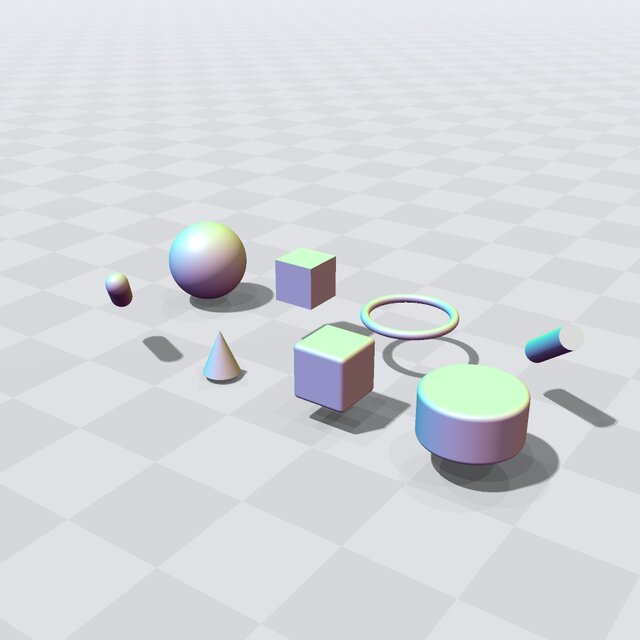
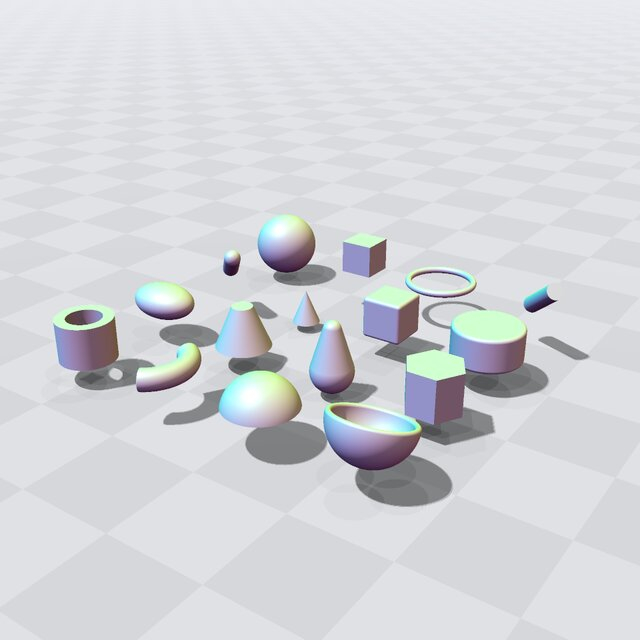
The nine shapes as built-in tape types, and in the Shapes example
They follow the three mesh SDFs in the type list, past Tape::DispatchSplit, so
the host's inlined dispatch is unchanged; the float and double tape kernels keep
168 registers. Tests: each in a one-clause tape and in the every-operation device
check; a composition of the shapes with ray forms traced exactly by a tape and
fused. The Shapes example builds, prints and shows all of them, with a rounded
prism from Offset; its picture is re-rendered.

Claude-Session: https://claude.ai/code/session_01FnaeZk1ThKVcT9ypbex2Vt

Changed region(s): [[0.0625, 0.3125, 0.9688, 0.8125]]

diff --git a/Examples/Shapes/main.cpp b/Examples/Shapes/main.cpp
@@ -91,7 +91,9 @@ main(int argc, char* argv[])
   // ── Construct the shapes ───────────────────────────────────────────────────────────────────────────
   //
   // The constructors take the shape's position before its sizes. A shape with a built-in axis (the
-  // torus, both cones, the rounded cylinder) has it along y, and a size is that of the finished shape.
+  // torus, the cones, the rounded cylinder, the capped torus, the cut spheres, the wedge) has it along y;
+  // the cylinder, capsule, capped and round cones, prism and tube take the centers of their two ends, so
+  // they can point anywhere. A size is that of the finished shape.
   // See the class documentation in EBGeometry_AnalyticDistanceFunctions.hpp for every parameter.
 
   // A plane through the origin, oriented by its normal vector (normalized for you).
@@ -131,6 +133,50 @@ main(int argc, char* argv[])
   // per-octave amplitude decay (persistence), and the number of octaves.
   const EBGeometry::PerlinSDF<T> perlin(T(1), Vec3::ones(), T(0.5), 10);
 
+  // An ellipsoid: center, and its semi-axes along x, y and z. Its distance is exact, from a short
+  // iteration, so it costs more to evaluate than the others; turn it with Rotate.
+  const EBGeometry::EllipsoidSDF<T> ellipsoid(Vec3::zeros(), Vec3(T(1), T(0.5), T(0.7)));
+
+  // A capped cone (a frustum, a nozzle): the centers of its two flat ends, and the radius at each. A
+  // radius of 0 makes a cone that, unlike ConeSDF, can point anywhere.
+  const EBGeometry::CappedConeSDF<T> cappedCone(Vec3(T(0), T(-0.6), T(0)), Vec3(T(0), T(0.6), T(0)), T(0.8), T(0.3));
+
+  // A round cone: two spheres, centers and radii, joined by the cone tangent to both.
+  const EBGeometry::RoundConeSDF<T> roundCone(Vec3(T(0), T(-0.5), T(0)), Vec3(T(0), T(0.7), T(0)), T(0.6), T(0.25));
+
+  // A regular prism (a polygonal rod): the centers of its two ends, circumradius, number of sides, and the
+  // direction from the axis toward one vertex.
+  const EBGeometry::PolygonPrismSDF<T> prism(
+    Vec3(T(0), T(-0.6), T(0)), Vec3(T(0), T(0.6), T(0)), T(0.8), 6U, Vec3(T(1), T(0), T(0)));
+
+  // A tube (a pipe): the centers of its two ends, inner and outer radius.
+  const EBGeometry::TubeSDF<T> tube(Vec3(T(0), T(-0.6), T(0)), Vec3(T(0), T(0.6), T(0)), T(0.5), T(0.8));
+
+  // A capped torus (a pipe elbow): center, major and minor radius, and the angle the arc sweeps, around y and
+  // symmetric about +x, with flat ends.
+  const EBGeometry::CappedTorusSDF<T> elbow(Vec3(T(-0.6), T(0), T(0)), T(1), T(0.3), T(120));
+
+  // A cut sphere (a dome): center, radius, and the height above the center where it is cut; the part above
+  // the cut is kept.
+  const EBGeometry::CutSphereSDF<T> dome(Vec3(T(0), T(-0.3), T(0)), T(1), T(0.2));
+
+  // A cut hollow sphere (a shell): center, radius of the shell's middle, cut height and wall thickness.
+  const EBGeometry::CutHollowSphereSDF<T> shell(Vec3(T(0), T(-0.5), T(0)), T(1), T(0), T(0.15));
+
+  // A wedge (a knife edge), infinite along z and pointing along +y: a point on its edge, opening angle.
+  const EBGeometry::WedgeSDF<T> wedge(Vec3::zeros(), T(60));
+
+  // Rounded edges come from Offset: a slightly smaller prism, inflated by the rounding radius, rounds every
+  // edge and keeps the outer size.
+  const T    rounding = T(0.1);
+  const auto roundedPrism =
+    EBGeometry::Fused::Offset(EBGeometry::PolygonPrismSDF<T>(Vec3(T(0), T(-0.6) + rounding, T(0)),
+                                                             Vec3(T(0), T(0.6) - rounding, T(0)),
+                                                             T(0.8) - rounding / std::cos(EBGeometry::pi<T> / T(6)),
+                                                             6U,
+                                                             Vec3(T(1), T(0), T(0))),
+                              rounding);
+
   // ── Use them on the host ───────────────────────────────────────────────────────────────────────────
   //
   // signedDistance(point) is negative inside, positive outside and zero on the surface.
@@ -153,6 +199,16 @@ main(int argc, char* argv[])
   report("rounded box", roundedBox);
   report("rounded cylinder", roundedCylinder);
   report("Perlin noise", perlin);
+  report("ellipsoid", ellipsoid);
+  report("capped cone", cappedCone);
+  report("round cone", roundCone);
+  report("prism", prism);
+  report("tube", tube);
+  report("capped torus", elbow);
+  report("cut sphere", dome);
+  report("cut hollow sphere", shell);
+  report("wedge", wedge);
+  report("rounded prism", roundedPrism);
 
   // ── The same query on a GPU ────────────────────────────────────────────────────────────────────────
   //
@@ -185,13 +241,27 @@ main(int argc, char* argv[])
 
   // ── Look at them ───────────────────────────────────────────────────────────────────────────────────
   //
-  // The bounded shapes side by side, two rows of four. Shapes of different types are put together with the
+  // The bounded shapes side by side, four rows of four, the shell turned over to show its hollow. Shapes of different types are put together with the
   // expression builder and a Tape (see the BasicCSG example); Translate moves each to its place. A window
   // opens when built with VIEWER=SDL2; otherwise, with --no-view or without a display, view() prints why
   // and returns.
   // Given the pool, view() renders on the GPU in a GPU build (G switches to the CPU and back).
-  const std::vector<EBGeometry::Expr<T>> bounded{
-    sphere, box, torus, cylinder, capsule, cone, roundedBox, roundedCylinder};
+  const std::vector<EBGeometry::Expr<T>> bounded{sphere,
+                                                 box,
+                                                 torus,
+                                                 cylinder,
+                                                 capsule,
+                                                 cone,
+                                                 roundedBox,
+                                                 roundedCylinder,
+                                                 ellipsoid,
+                                                 cappedCone,
+                                                 roundCone,
+                                                 prism,
+                                                 tube,
+                                                 elbow,
+                                                 dome,
+                                                 EBGeometry::Rotate(shell, T(160), 0)};
 
   std::vector<EBGeometry::Expr<T>> gallery;
 

diff --git a/Tests/TestTape.cpp b/Tests/TestTape.cpp
@@ -118,6 +118,15 @@ TEMPLATE_TEST_CASE("Tape: a single analytic shape evaluates exactly like the sha
   const RoundedBoxSDF<T>       roundedBox(Vec3(T(0.1), T(0), T(0)), Vec3(T(1.2), T(1), T(0.8)), T(0.1));
   const RoundedCylinderSDF<T>  roundedCylinder(Vec3(T(0), T(0.1), T(0)), T(0.5), T(0.1), T(1));
   const PerlinSDF<T>           perlin(T(0.5), T(2) * Vec3::ones(), T(0.5), 4);
+  const EllipsoidSDF<T>        ellipsoid(Vec3(T(0.1), T(0), T(0.2)), Vec3(T(1), T(0.5), T(0.7)));
+  const CappedConeSDF<T>       cappedCone(Vec3(T(-1), T(0), T(0)), Vec3(T(1), T(0.5), T(0)), T(0.6), T(0.2));
+  const RoundConeSDF<T>        roundCone(Vec3(T(-1), T(0), T(0)), Vec3(T(1), T(0.5), T(0)), T(0.5), T(0.2));
+  const PolygonPrismSDF<T> polygonPrism(Vec3(T(-1), T(0), T(0)), Vec3(T(1), T(0.5), T(0)), T(0.6), 6U, Vec3::unit(2));
+  const TubeSDF<T>         tube(Vec3(T(-1), T(0), T(0)), Vec3(T(1), T(0.5), T(0)), T(0.3), T(0.6));
+  const CappedTorusSDF<T>  cappedTorus(Vec3(T(0.1), T(0), T(-0.2)), T(1), T(0.25), T(135));
+  const CutSphereSDF<T>    cutSphere(Vec3(T(0.2), T(-0.1), T(0.3)), T(0.8), T(0.3));
+  const CutHollowSphereSDF<T> cutHollowSphere(Vec3(T(0.2), T(-0.1), T(0.3)), T(0.8), T(0.3), T(0.1));
+  const WedgeSDF<T>           wedge(Vec3(T(0), T(1), T(0)), T(60));
 
   const auto check = [](const auto& a_shape) {
     const TestUtils::Compiled<T> tape(a_shape);
@@ -141,6 +150,15 @@ TEMPLATE_TEST_CASE("Tape: a single analytic shape evaluates exactly like the sha
   check(roundedBox);
   check(roundedCylinder);
   check(perlin);
+  check(ellipsoid);
+  check(cappedCone);
+  check(roundCone);
+  check(polygonPrism);
+  check(tube);
+  check(cappedTorus);
+  check(cutSphere);
+  check(cutHollowSphere);
+  check(wedge);
 }
 
 TEMPLATE_TEST_CASE("Tape: a union of a mesh SDF and a sphere is the smaller of the two distances everywhere",
@@ -566,7 +584,7 @@ TEMPLATE_TEST_CASE("Tape: device evaluation matches the host for every operation
 
   Pool pool(hostMemoryResource());
 
-  // Every built-in primitive type: the twelve analytic shapes and the three mesh SDFs.
+  // Every built-in primitive type: the analytic shapes and the three mesh SDFs.
   const auto mesh = Parser::readIntoDCEL<T>(dodecahedron(), pool);
 
   const FlatMeshSDF<T>      flat(mesh, pool);
@@ -585,6 +603,15 @@ TEMPLATE_TEST_CASE("Tape: device evaluation matches the host for every operation
   const RoundedBoxSDF<T>       roundedBox(Vec3(T(0.1), T(0), T(0)), Vec3(T(1.2), T(1), T(0.8)), T(0.1));
   const RoundedCylinderSDF<T>  roundedCylinder(Vec3(T(0), T(0.1), T(0)), T(0.5), T(0.1), T(1));
   const PerlinSDF<T>           perlin(T(0.5), T(2) * Vec3::ones(), T(0.5), 4);
+  const EllipsoidSDF<T>        ellipsoid(Vec3(T(0.1), T(0), T(0.2)), Vec3(T(1), T(0.5), T(0.7)));
+  const CappedConeSDF<T>       cappedCone(Vec3(T(-1), T(0), T(0)), Vec3(T(1), T(0.5), T(0)), T(0.6), T(0.2));
+  const RoundConeSDF<T>        roundCone(Vec3(T(-1), T(0), T(0)), Vec3(T(1), T(0.5), T(0)), T(0.5), T(0.2));
+  const PolygonPrismSDF<T> polygonPrism(Vec3(T(-1), T(0), T(0)), Vec3(T(1), T(0.5), T(0)), T(0.6), 6U, Vec3::unit(2));
+  const TubeSDF<T>         tube(Vec3(T(-1), T(0), T(0)), Vec3(T(1), T(0.5), T(0)), T(0.3), T(0.6));
+  const CappedTorusSDF<T>  cappedTorus(Vec3(T(0.1), T(0), T(-0.2)), T(1), T(0.25), T(135));
+  const CutSphereSDF<T>    cutSphere(Vec3(T(0.2), T(-0.1), T(0.3)), T(0.8), T(0.3));
+  const CutHollowSphereSDF<T> cutHollowSphere(Vec3(T(0.2), T(-0.1), T(0.3)), T(0.8), T(0.3), T(0.1));
+  const WedgeSDF<T>           wedge(Vec3(T(0), T(1), T(0)), T(60));
 
   std::vector<Expr<T>> primitives{plane,
                                   sphere,
@@ -597,6 +624,15 @@ TEMPLATE_TEST_CASE("Tape: device evaluation matches the host for every operation
                                   cone,
                                   roundedBox,
                                   roundedCylinder,
+                                  ellipsoid,
+                                  cappedCone,
+                                  roundCone,
+                                  polygonPrism,
+                                  tube,
+                                  cappedTorus,
+                                  cutSphere,
+                                  cutHollowSphere,
+                                  Intersection(wedge, box),
                                   Translate(flat, Vec3(T(3), T(0), T(0))),
                                   Translate(bvhMesh, Vec3(T(-3), T(0), T(0))),
                                   Translate(triMesh, Vec3(T(0), T(3), T(0)))};

diff --git a/Tests/TestRay.cpp b/Tests/TestRay.cpp
@@ -1064,6 +1064,55 @@ TEMPLATE_TEST_CASE("Ray: a tube's spans are its wall before and after the hollow
   }
 }
 
+TEMPLATE_TEST_CASE("Ray: compositions of the shapes with exact ray forms are traced exactly, in a tape and fused",
+                   "[Ray]",
+                   EBGEOMETRY_TEST_PRECISIONS)
+{
+  using T    = TestType;
+  using Vec3 = Vec3T<T>;
+
+  const EllipsoidSDF<T>    ellipsoid(Vec3(T(0.1), T(0), -T(0.2)), Vec3(T(0.5), T(0.3), T(0.4)));
+  const CappedConeSDF<T>   cone(Vec3(-T(0.8), -T(0.5), T(0)), Vec3(-T(0.2), T(0.6), T(0.1)), T(0.5), T(0.1));
+  const PolygonPrismSDF<T> prism(Vec3(T(0.2), -T(0.8), T(0)), Vec3(T(0.3), T(0.8), T(0.2)), T(0.4), 6U, Vec3::unit(0));
+  const TubeSDF<T>         tube(Vec3(-T(0.9), T(0), -T(0.6)), Vec3(T(0.9), T(0), -T(0.5)), T(0.15), T(0.3));
+  const CutSphereSDF<T>    dome(Vec3(T(0), T(0.4), T(0.5)), T(0.5), T(0.1));
+  const WedgeSDF<T>        wedge(Vec3(T(0), T(0.9), T(0)), T(100));
+
+  const auto fused = Fused::Intersection(Fused::Difference(Fused::Union(cone, prism, tube, dome), ellipsoid), wedge);
+
+  Pool          pool(hostMemoryResource());
+  const Tape<T> tape(pool,
+                     Intersection(Difference(Union(std::vector<Expr<T>>{cone, prism, tube, dome}), ellipsoid), wedge));
+
+  std::mt19937                      rng(17);
+  std::uniform_real_distribution<T> uniform(-T(1), T(1));
+
+  int hits = 0;
+
+  for (int i = 0; i < 400; i++) {
+    const Vec3    origin = T(3) * normalized(Vec3(uniform(rng), uniform(rng), uniform(rng)));
+    const Vec3    target = T(0.6) * Vec3(uniform(rng), uniform(rng), uniform(rng));
+    const RayT<T> ray{origin, normalized(target - origin)};
+
+    const HitT<T> viaFused = firstHit(fused, ray, T(0), T(10));
+    const HitT<T> viaTape  = tape.firstHit(ray, T(0), T(10));
+
+    INFO("ray " << i << " from " << origin);
+    REQUIRE(viaTape.m_status == viaFused.m_status);
+
+    if (viaFused.hit()) {
+      REQUIRE(viaFused.m_exact);
+      REQUIRE(viaTape.m_exact);
+      REQUIRE_THAT(viaTape.m_t, withinAbsT(viaFused.m_t, looseMargin<T>()));
+      REQUIRE_THAT(std::abs(fused.signedDistance(viaFused.m_point)), withinAbsT(T(0), 1e-3));
+
+      hits++;
+    }
+  }
+
+  REQUIRE(hits > 50);
+}
+
 TEMPLATE_TEST_CASE("Ray: fused and taped compositions are traced to the closed-form crossings, and marched on request",
                    "[Ray]",
                    EBGEOMETRY_TEST_PRECISIONS)

diff --git a/Source/EBGeometry_Tape.hpp b/Source/EBGeometry_Tape.hpp
@@ -581,8 +581,10 @@ storeAt(PrimitiveStore<P, Ps...>& a_store) noexcept
 }
 
 /**
- * @brief The tape's primitive types: the twelve analytic shapes, the three mesh SDFs with the default
- * branching factor and SIMD width, then the user's types (its template arguments that are not features).
+ * @brief The tape's primitive types: twelve analytic shapes (PlaneSDF to PerlinSDF), the three mesh SDFs with the
+ * default branching factor and SIMD width, nine more analytic shapes (EllipsoidSDF to WedgeSDF), then the user's
+ * types (its template arguments that are not features). On the host, every type from Tape::DispatchSplit on is
+ * dispatched out of line.
  * @details Internal helper; not part of the public API.
  * @tparam T            Floating-point precision.
  * @tparam UserPrimitives User primitive types and features.
@@ -603,7 +605,16 @@ using Primitives =
                            PerlinSDF<T>,
                            FlatMeshSDF<T>,
                            MeshSDF<T, BVH::DefaultBranchingRatio<T>()>,
-                           TriMeshSDF<T, BVH::DefaultBranchingRatio<T>(), TriangleSoA::DefaultWidth<T>()>>,
+                           TriMeshSDF<T, BVH::DefaultBranchingRatio<T>(), TriangleSoA::DefaultWidth<T>()>,
+                           EllipsoidSDF<T>,
+                           CappedConeSDF<T>,
+                           RoundConeSDF<T>,
+                           PolygonPrismSDF<T>,
+                           TubeSDF<T>,
+                           CappedTorusSDF<T>,
+                           CutSphereSDF<T>,
+                           CutHollowSphereSDF<T>,
+                           WedgeSDF<T>>,
                   UserTypesOf<UserPrimitives...>>::type;
 
 /**
